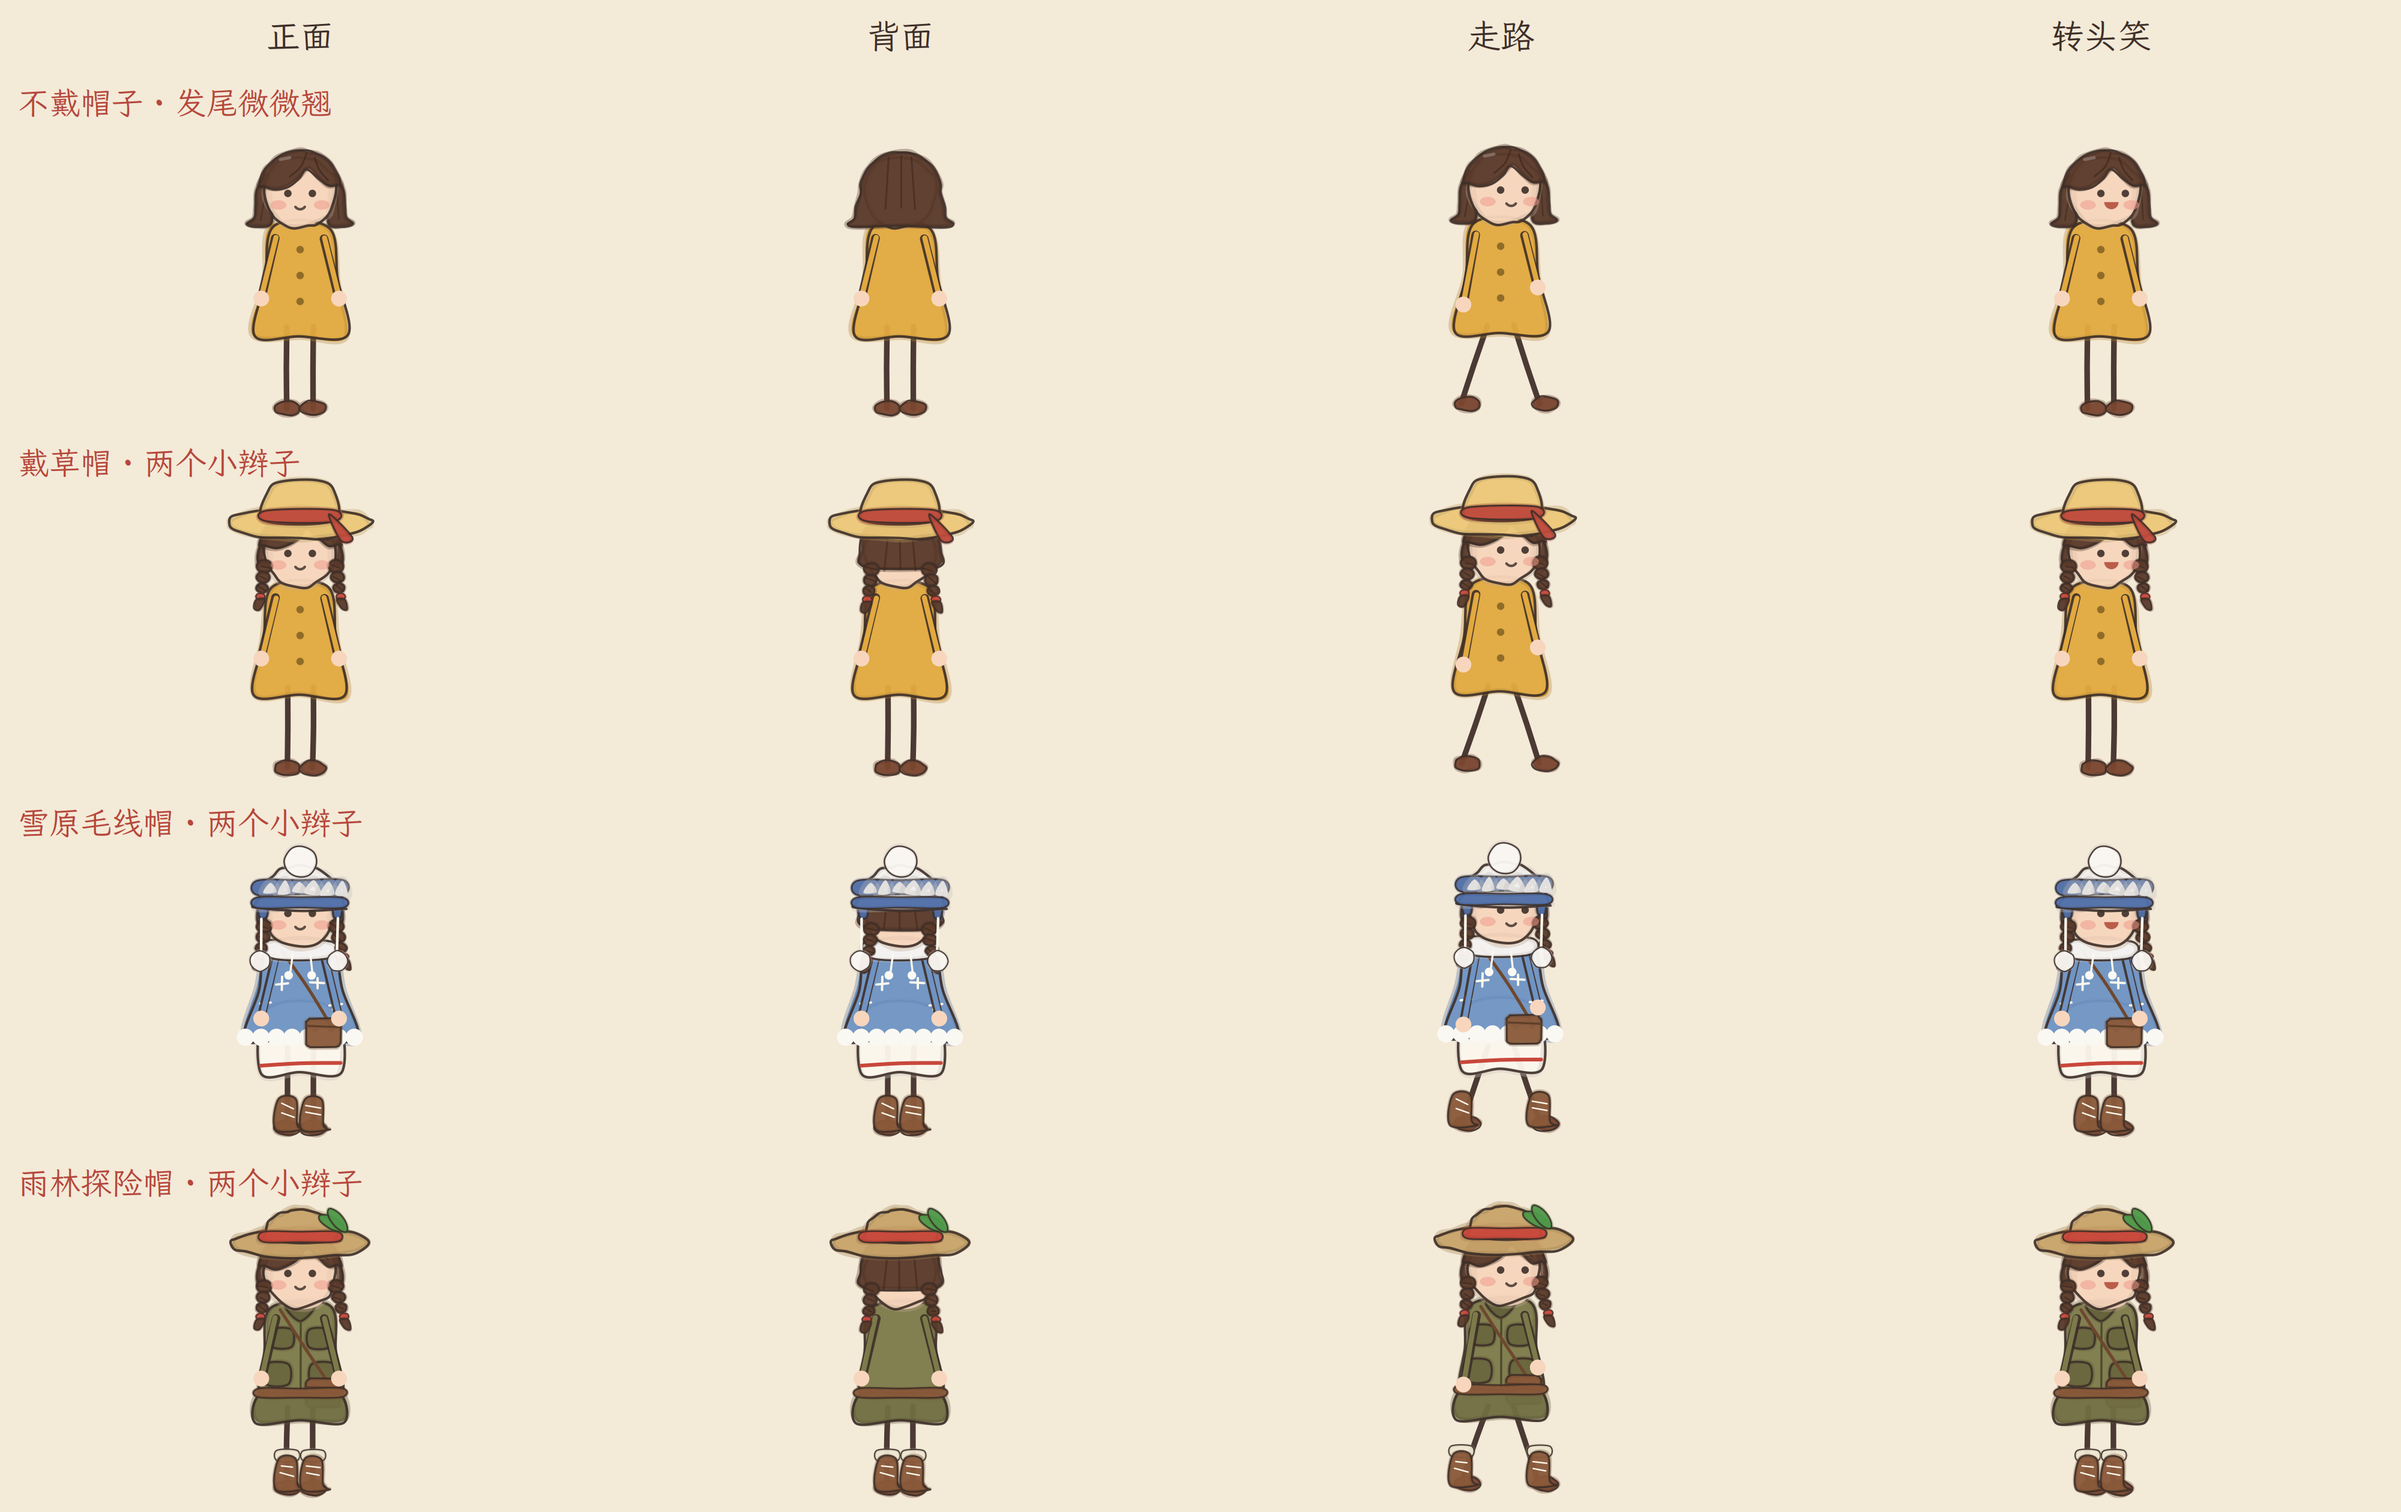
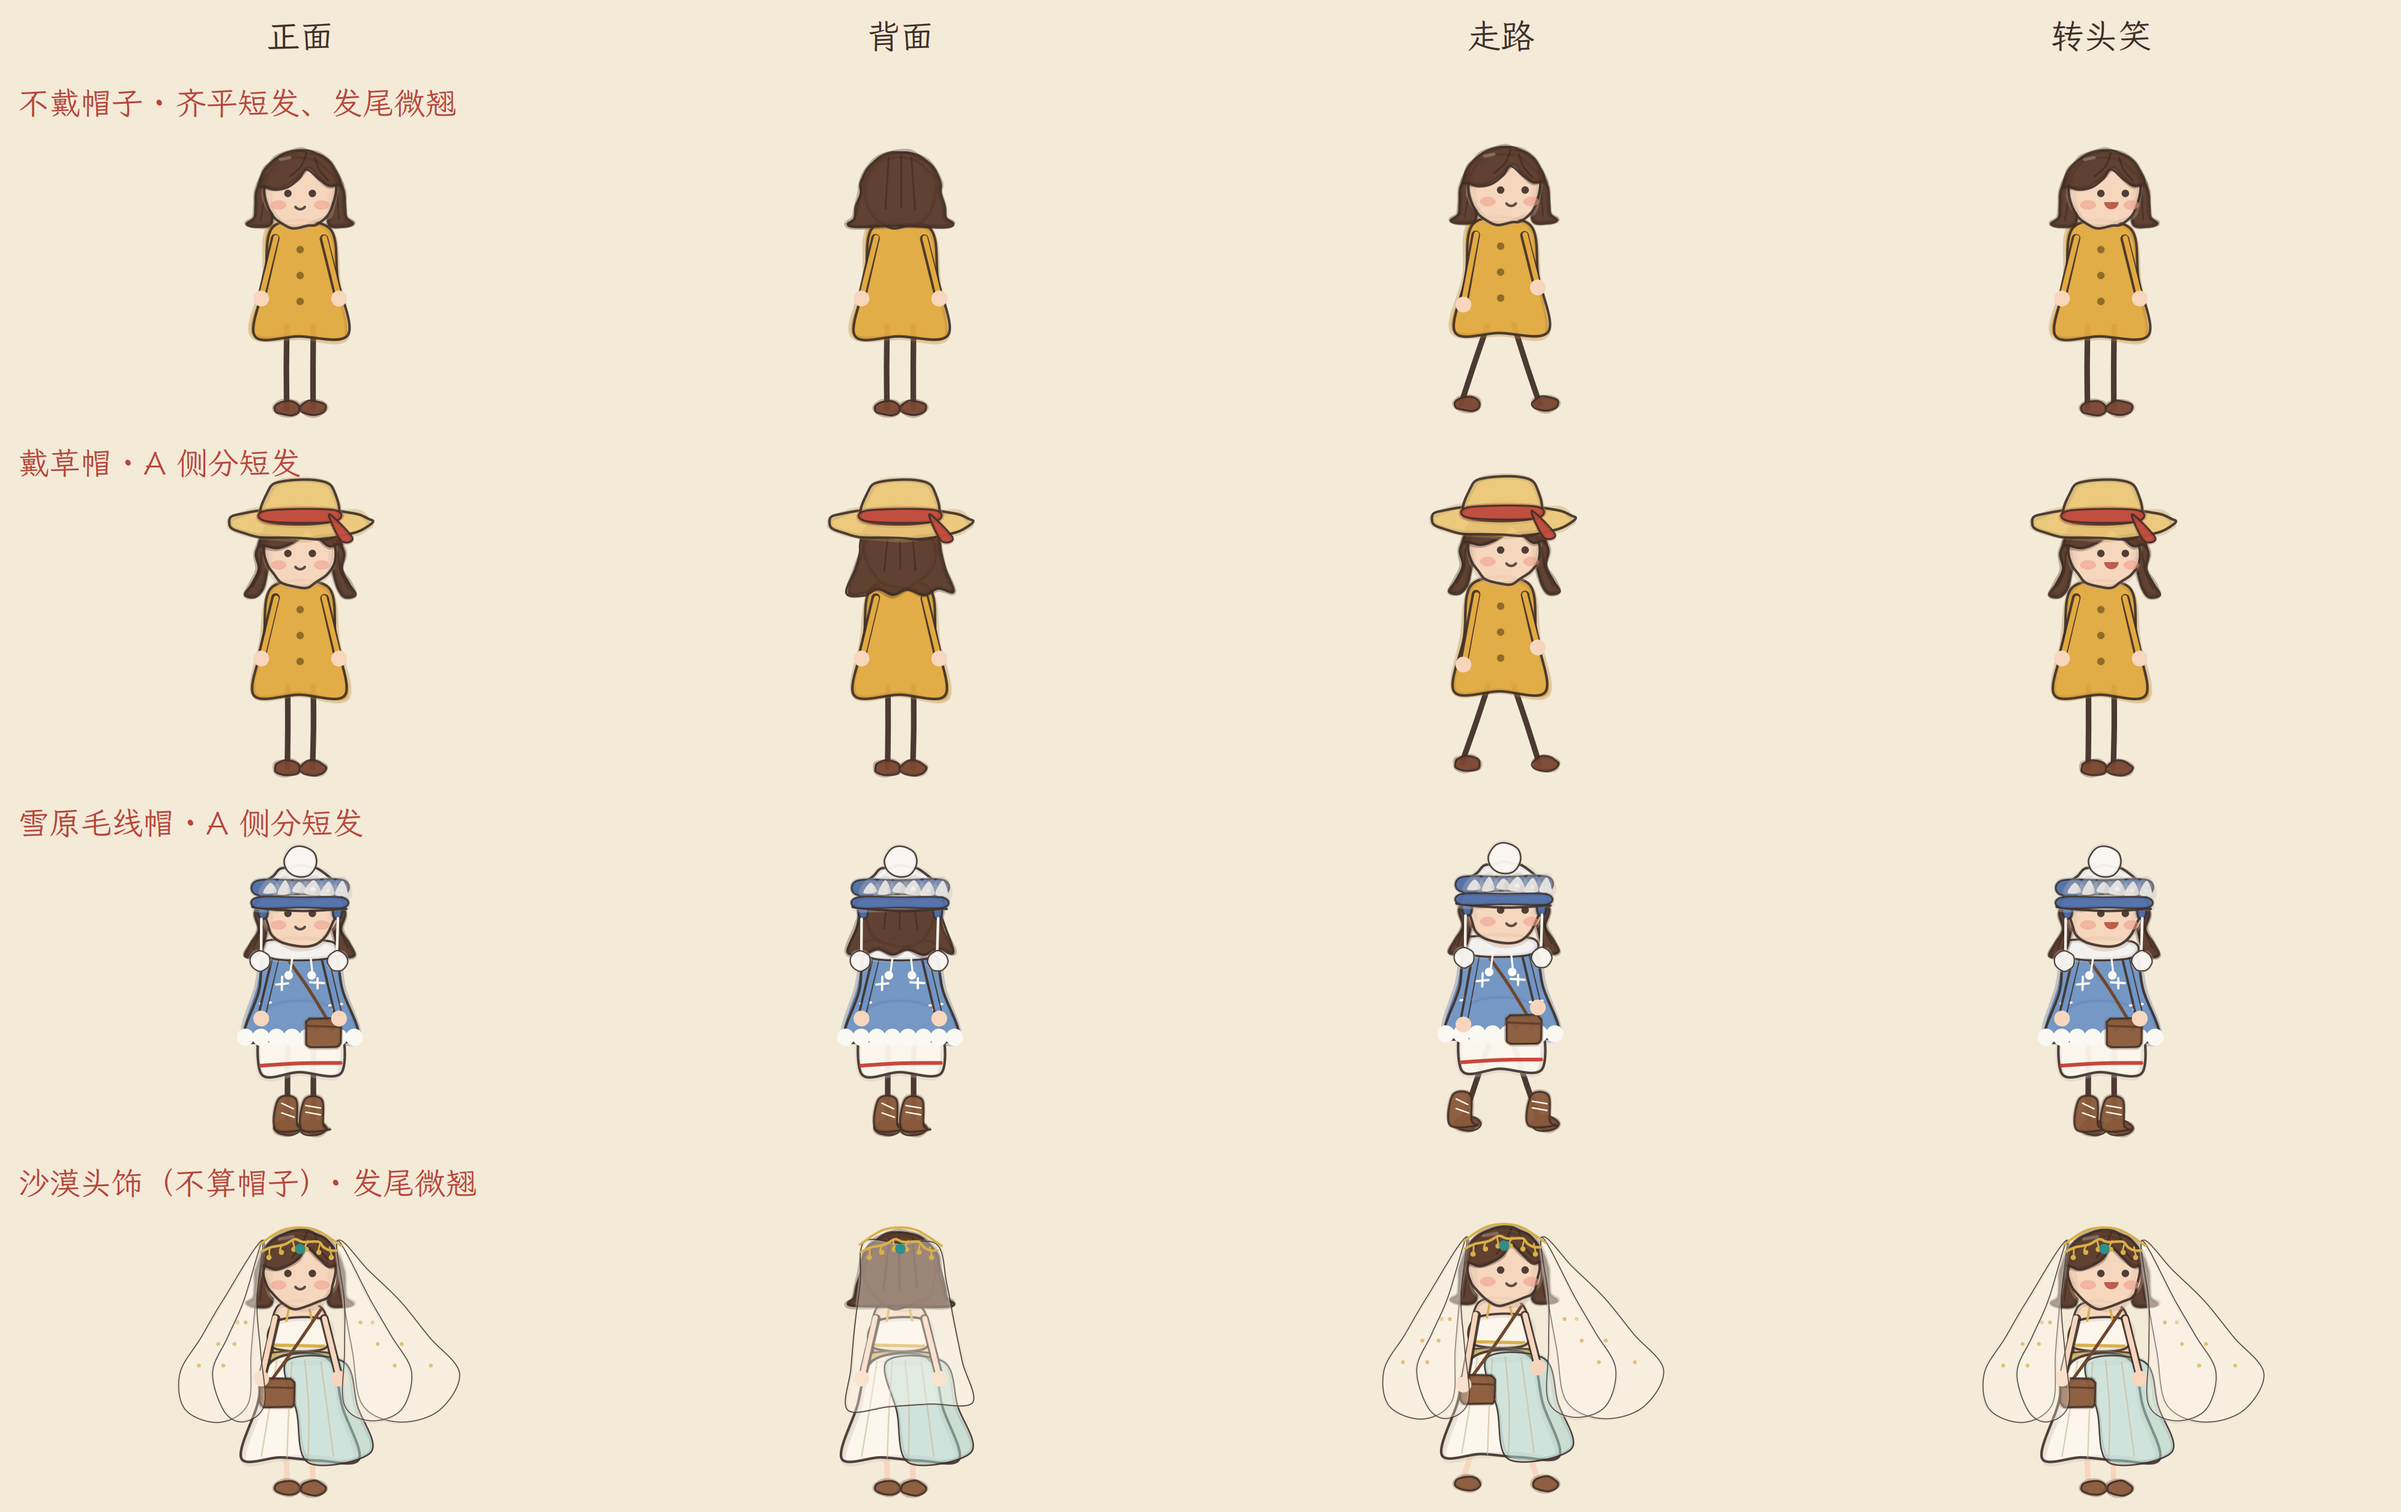
发型规则：戴帽子恢复 A 侧分短发，不戴帽子用齐平微翘短发
Claude-Session: https://claude.ai/code/session_016YmjUFEpcpE2RDQgwmoYJP

diff --git a/video/series/draw.py b/video/series/draw.py
@@ -745,11 +745,12 @@ def _sway(key, k=1.0):
 def _hair_behind(c, style, x, y, hair, key, lw):
     """脸后面的头发：只露出两侧和脑后，不在下巴处合成一圈。"""
     if style in ("sweep", "pony"):
-        for sg in (-1, 1):                     # 两侧顺直垂下，下摆齐平，不外翘
-            pts = [(x + sg * 23, y - 12), (x + sg * 30, y - 2), (x + sg * 31, y + 10), (x + sg * 31, y + 22),
-                   (x + sg * 20, y + 22), (x + sg * 20, y + 4)]
-            shape(c, pts, hair, f"{key}lk{sg}", lw=lw * 0.9, amp=0.35)
-            line(c, [(x + sg * 25, y), (x + sg * 26, y + 19)], f"{key}wv{sg}", 1.1, darker(hair, 0.6), alpha=0.45)
+        for sg in (-1, 1):                     # A 侧分短发：两侧发尾外翘（戴帽子时用）
+            pts = [(x + sg * 23, y - 12), (x + sg * 31, y), (x + sg * 29, y + 12), (x + sg * 34, y + 22), (x + sg * 38, y + 30),
+                   (x + sg * 31, y + 31), (x + sg * 26, y + 25), (x + sg * 23, y + 14), (x + sg * 20, y + 4)]
+            shape(c, pts, hair, f"{key}lk{sg}", lw=lw * 0.9, amp=0.5)
+            line(c, [(x + sg * 26, y), (x + sg * 28, y + 14), (x + sg * 33, y + 25)], f"{key}wv{sg}", 1.1, darker(hair, 0.6),
+                 alpha=0.5)
     if style == "flick":
         for sg in (-1, 1):                     # 不戴帽：齐平的下摆，发尾微微往外翘
             pts = [(x + sg * 23, y - 12), (x + sg * 30, y - 2), (x + sg * 31, y + 10), (x + sg * 32, y + 18),
@@ -886,7 +887,8 @@ def _hair_back_view(c, style, y, hair, key, lw):
     elif style == "hat_braids":
         pts += [(29, y + 8), (18, y + 12), (-18, y + 12), (-29, y + 8)]
     elif style in ("sweep", "pony"):
-        pts += [(31, y + 10), (31, y + 22), (-31, y + 22), (-31, y + 10)]      # 齐平的下摆
+        pts += [(31, y + 12), (37, y + 28), (26, y + 26), (16, y + 30), (5, y + 26), (-5, y + 30), (-16, y + 26),
+                (-26, y + 30), (-37, y + 28), (-31, y + 12)]
     else:
         pts += [(26, y + 12), (0, y + 16), (-26, y + 12)]
     shape(c, pts, hair, key + "bk", lw=lw * 0.9, amp=0.6)
@@ -908,7 +910,9 @@ def _hair_back_view(c, style, y, hair, key, lw):
 
 def girl(c, x, y, s=1.0, **kw):
     kw.setdefault("key", "girl")
-    kw.setdefault("hair_style", "sweep")       # 系列定稿发型：A 侧分短发
+    if "hair_style" not in kw:                 # 系列定稿：戴帽子 → A 侧分短发；不戴帽子 → 齐平短发、发尾微翘
+        hatted = kw.get("hat", True) and kw.get("outfit") not in ("desert", "sea_pink", "sea_white")
+        kw["hair_style"] = "sweep" if hatted else "flick"
     kw.setdefault("keep_color", True)
     person(c, x, y, s, **kw)
 

diff --git a/video/series/character_sheet.py b/video/series/character_sheet.py
@@ -47,7 +47,7 @@ def costume_sheet(path):
     for i, (o, lab) in enumerate(outfits):
         y = 120 + rh * i + rh - 40
         text(c, lab, 30, 120 + rh * i + 70, 52, hexc("b5473c"), anchor="l")
-        kw = dict(hair_style="sweep", pack=False, key=f"cos{o}", outfit=None if o == "coat" else o)
+        kw = dict(pack=False, key=f"cos{o}", outfit=None if o == "coat" else o)
         girl(c, cw * 0.5, y, 2.4, hat=True, **kw)
         girl(c, cw * 1.5, y, 2.4, hat=True, view="back", **kw)
         girl(c, cw * 2.5, y, 2.4, hat=True, walk=0.9, look=1.0, **kw)
